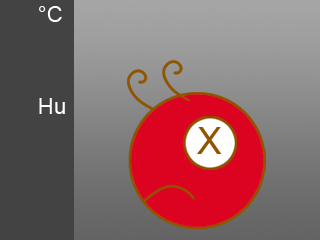
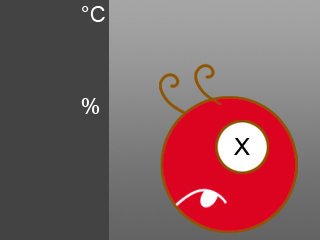
Refine positioning, new images

diff --git a/Team 1/HiveSenseTeam1/HiveSenseDisplay/HiveSenseDisplay/Program.cs b/Team 1/HiveSenseTeam1/HiveSenseDisplay/HiveSenseDisplay/Program.cs
@@ -153,7 +153,7 @@ namespace HiveSenseDisplay
             HiveTime.Font = Resources.GetFont(Resources.FontResources.Calibri24);
             Layout.Children.Add(HiveTime);
             //Set the text position
-            Canvas.SetLeft(HiveTime, 85);
+            Canvas.SetLeft(HiveTime, 115);
             Canvas.SetTop(HiveTime, 2);
 
             HiveAlert = new Text("Test");
@@ -161,10 +161,10 @@ namespace HiveSenseDisplay
             HiveAlert.Font = Resources.GetFont(Resources.FontResources.NinaB);
             Layout.Children.Add(HiveAlert);
             //Set the text position
-            Canvas.SetLeft(HiveAlert, 85);
-            Canvas.SetTop(HiveAlert, 30);
+            Canvas.SetLeft(HiveAlert, 115);
+            Canvas.SetTop(HiveAlert, 40);
 
-            HiveTemp = new Text("00");
+            HiveTemp = new Text("00.00");
             HiveTemp.ForeColor = Colors.White;
             HiveTemp.Font = Resources.GetFont(Resources.FontResources.Calibri24);
             Layout.Children.Add(HiveTemp);
@@ -172,7 +172,7 @@ namespace HiveSenseDisplay
             Canvas.SetLeft(HiveTemp, LeftMargin);
             Canvas.SetTop(HiveTemp, 2);
 
-            HiveHumidity = new Text("20");
+            HiveHumidity = new Text("20.00");
             HiveHumidity.ForeColor = Colors.White;
             HiveHumidity.Font = Resources.GetFont(Resources.FontResources.Calibri24);
             Layout.Children.Add(HiveHumidity);
